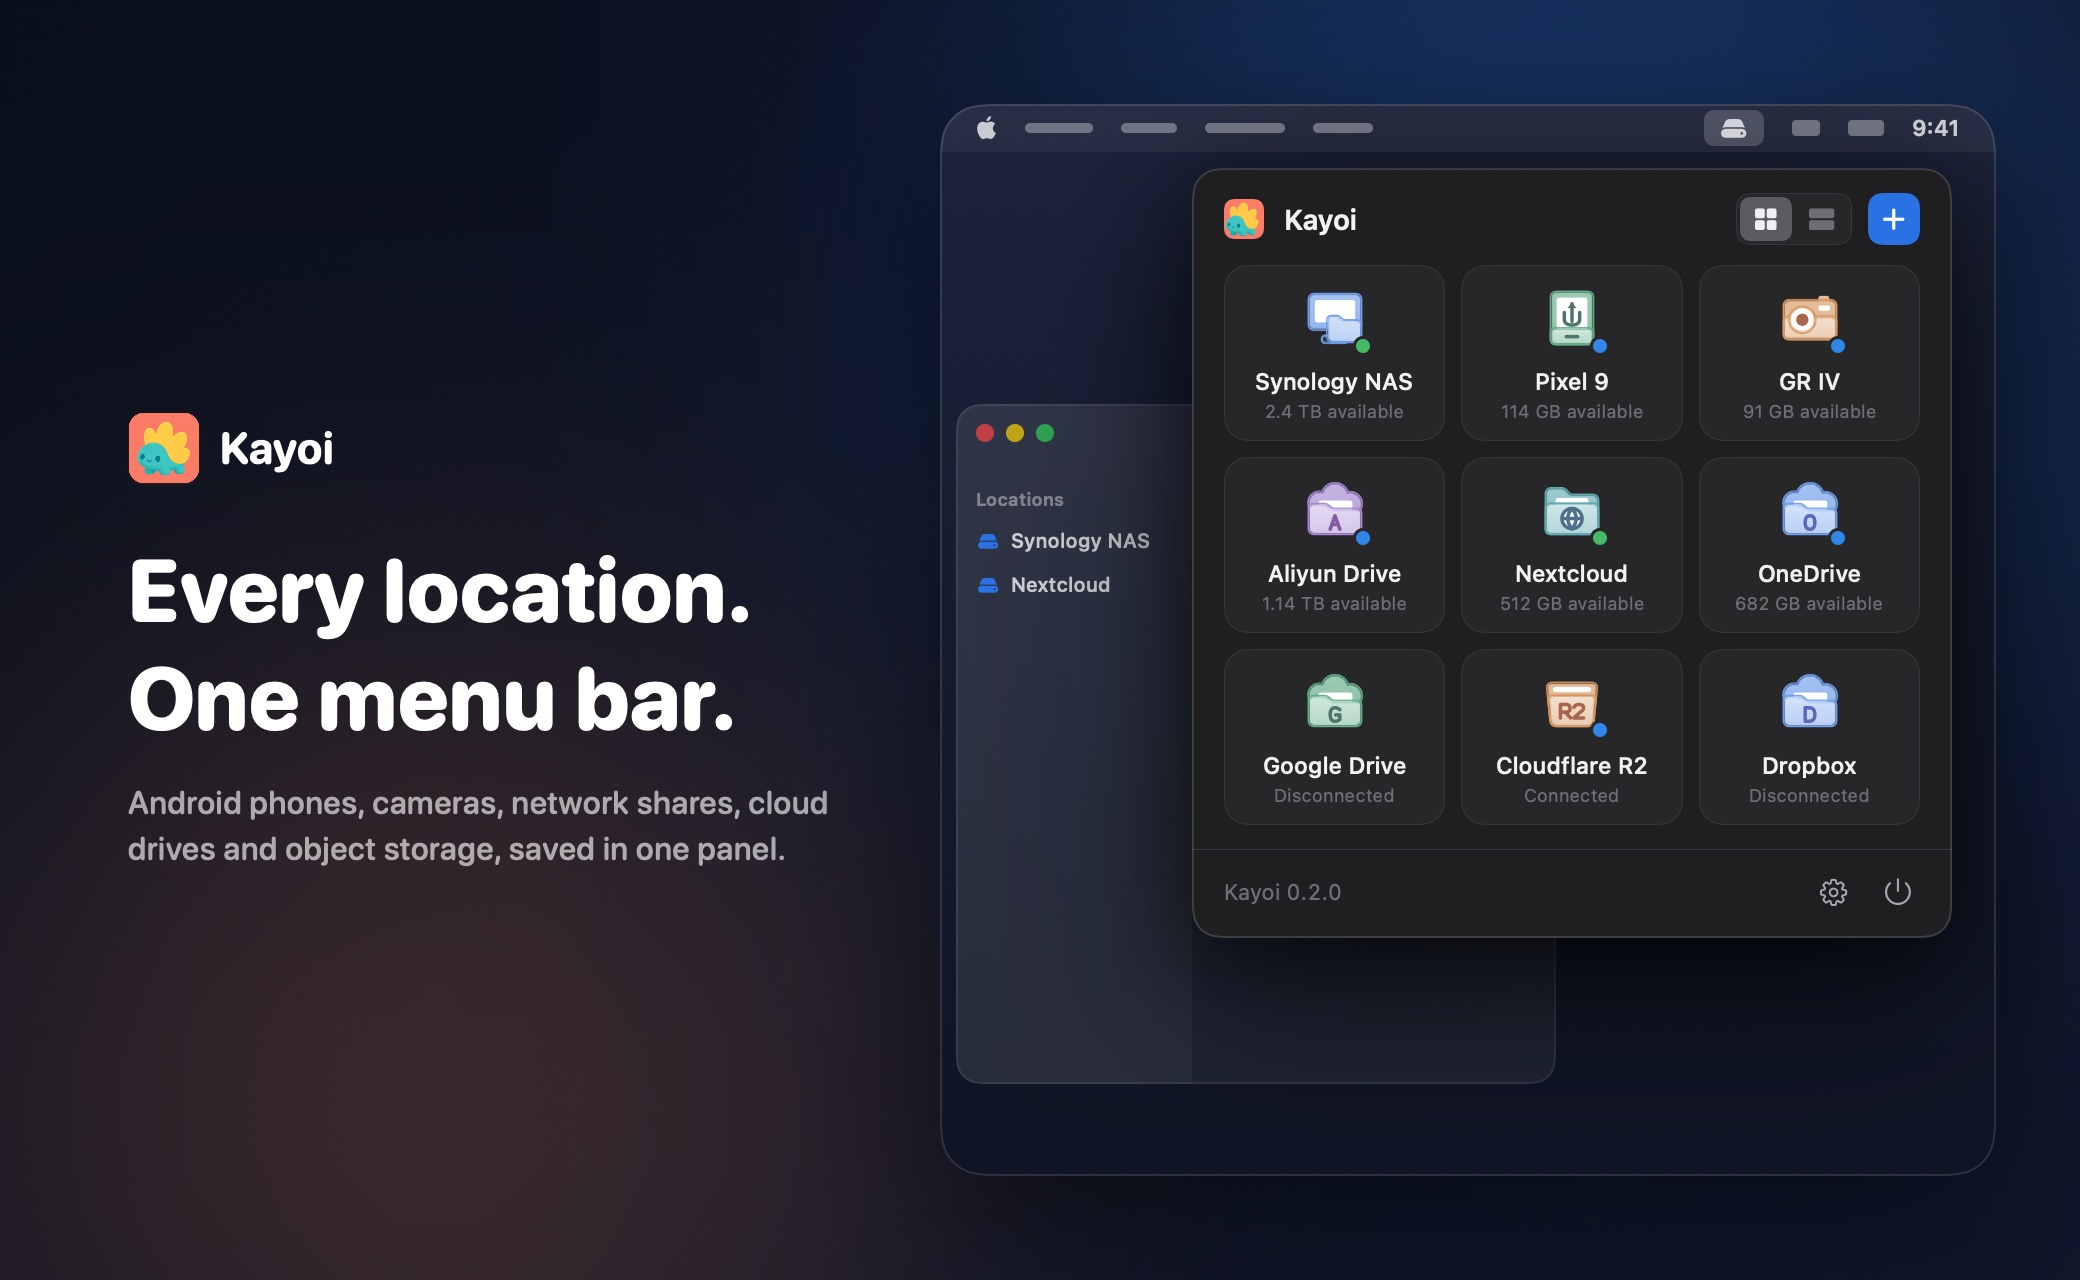
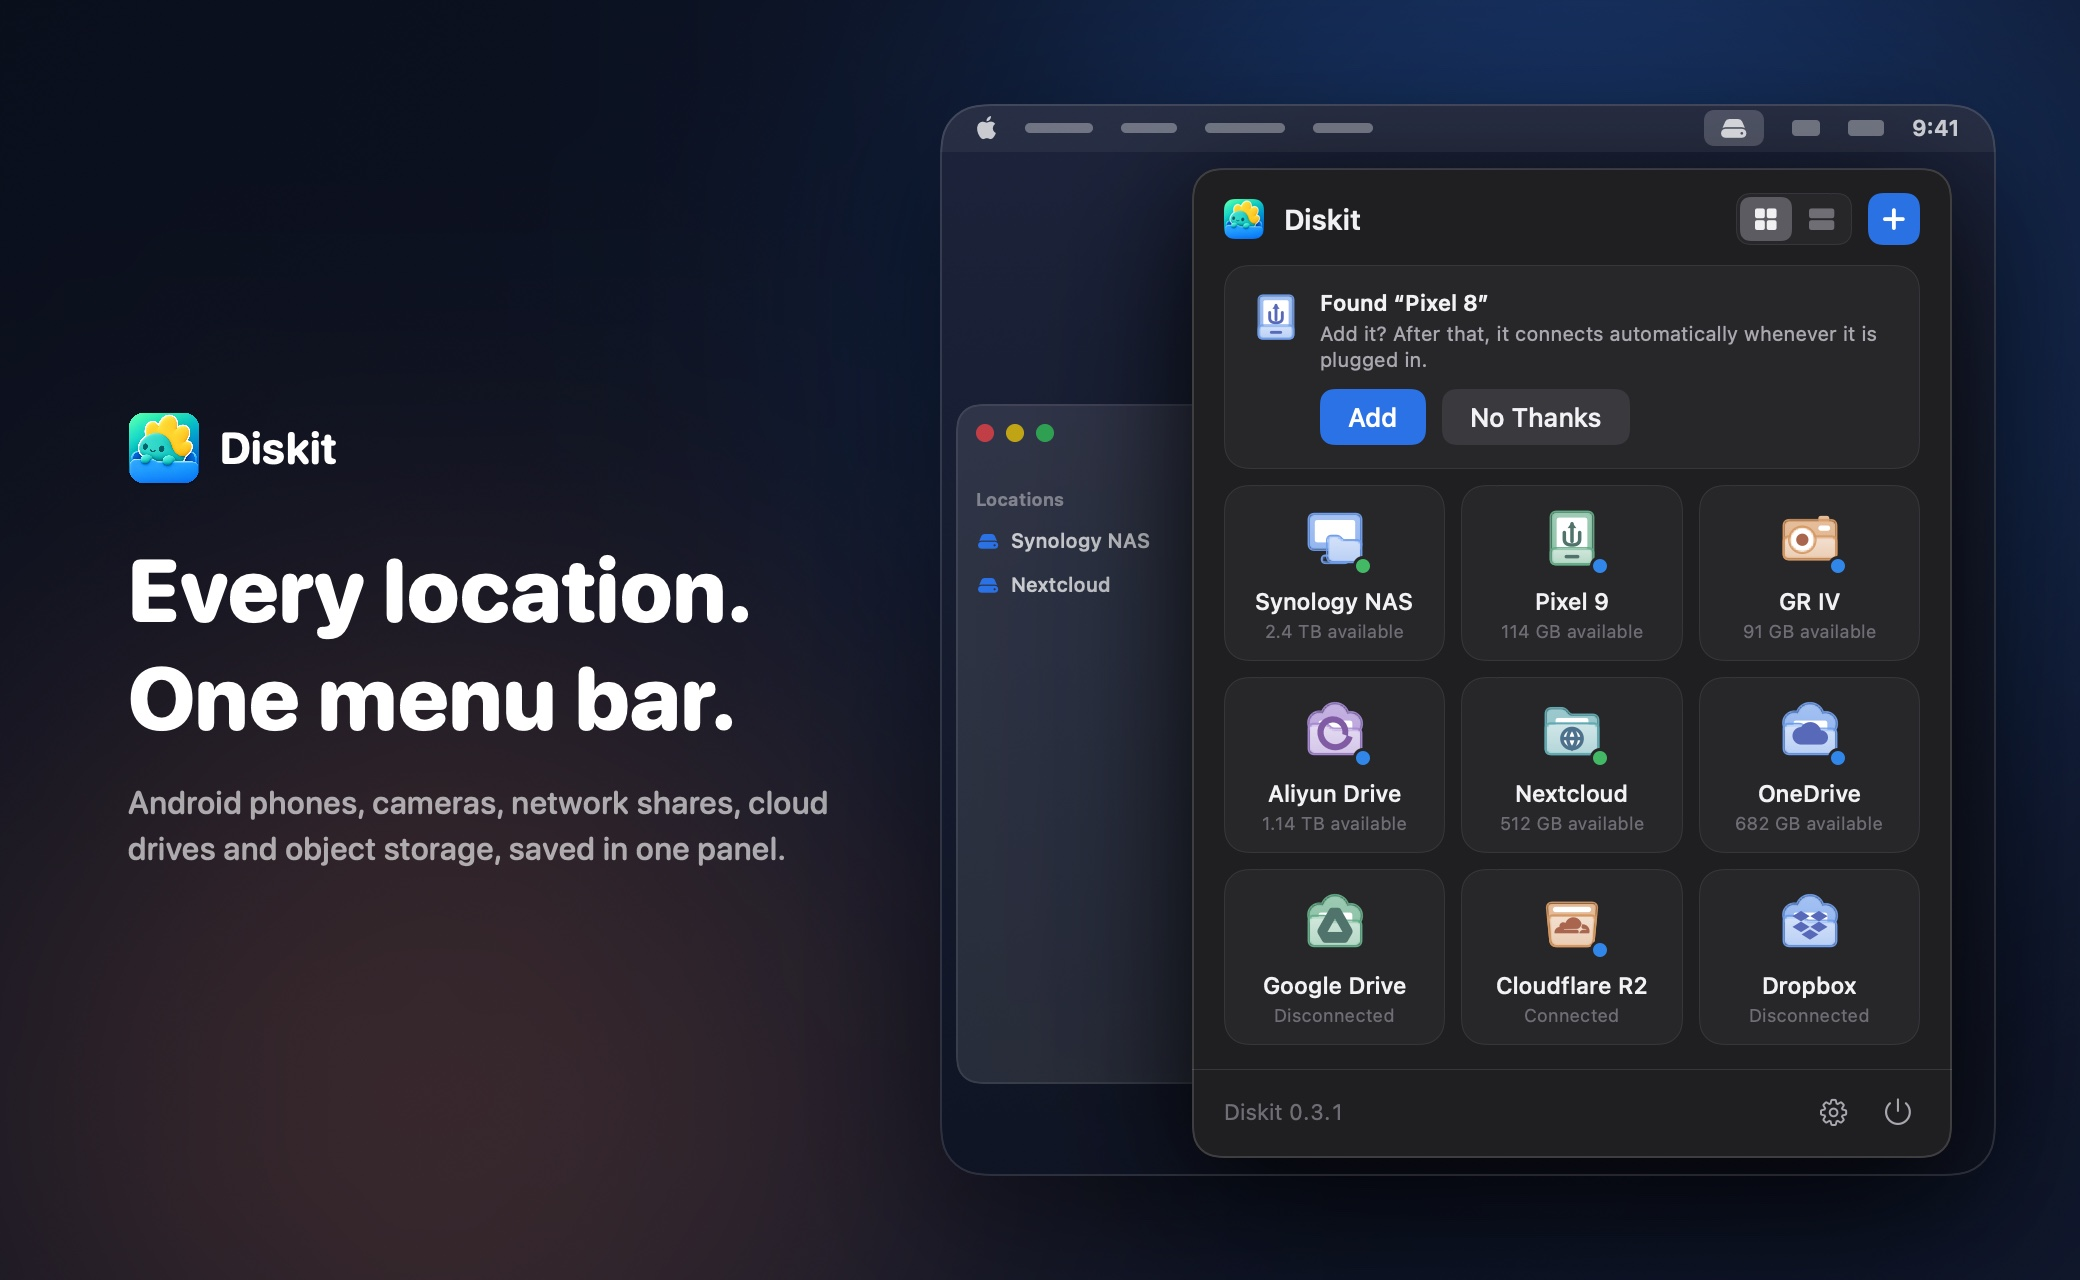
同步 README 和产品图

diff --git a/README.md b/README.md
@@ -1,8 +1,8 @@
 <div align="center">
 
-<a href="https://github.com/Seaony/Kayoi/releases/latest"><img src="docs/assets/icon-512.png" width="112" alt="Kayoi"></a>
+<a href="https://github.com/Seaony/Diskit/releases/latest"><img src="docs/assets/icon-512.png" width="112" alt="Diskit"></a>
 
-# Kayoi
+# Diskit
 
 ### Every location. One menu bar.
 
@@ -12,42 +12,42 @@ and mount your shares in Finder with one click.
 
 ![macOS 26+](https://img.shields.io/badge/macOS-26%2B-000000?logo=apple&logoColor=white) ![Swift 6](https://img.shields.io/badge/Swift-6-F05138?logo=swift&logoColor=white) ![SwiftUI](https://img.shields.io/badge/UI-SwiftUI-0A84FF?logo=swift&logoColor=white)
 
-**[Download](https://github.com/Seaony/Kayoi/releases/latest)** &nbsp;·&nbsp; **English** · [简体中文](README.zh-CN.md)
+**[Download](https://github.com/Seaony/Diskit/releases/latest)** &nbsp;·&nbsp; **English** · [简体中文](README.zh-CN.md)
 
 <br>
 
 <picture>
   <source media="(prefers-color-scheme: dark)" srcset="docs/assets/product-dark-en.jpg">
-  <img src="docs/assets/product-light-en.jpg" width="900" alt="Kayoi's panel open under its menu bar icon, showing a NAS, a phone, a camera and several cloud drives">
+  <img src="docs/assets/product-light-en.jpg" width="900" alt="Diskit's panel open under its menu bar icon, showing a NAS, a phone, a camera and several cloud drives">
 </picture>
 
 </div>
 
 <br>
 
-## Is Kayoi for you?
+## Is Diskit for you?
 
 Your files live in many places: a NAS at home, a phone on your desk, a camera in your bag, a few cloud drives and a storage bucket. Each one has its own app, its own sign-in and its own way to connect, and you end up looking them up again every time.
 
-Kayoi keeps them all in one panel in the menu bar:
+Diskit keeps them all in one panel in the menu bar:
 
 - **See everything at a glance**: each location is a card with its status and free space. Switch between cards and a compact list.
 - **Mount shares in one click**: SMB, WebDAV and NFS shares mount in Finder and stay there until you eject them.
-- **Connect phones and cameras without extra apps**: Kayoi speaks ADB itself, over USB or wireless debugging, and reads cameras through macOS.
+- **Connect phones and cameras without extra apps**: Diskit speaks ADB itself, over USB or wireless debugging, and reads cameras through macOS.
 - **Keep secrets in the Keychain**: passwords, tokens and cookies never go into a config file.
 
 It's for you if you move files between several devices and services. If everything you use already lives in one cloud drive with its own Mac app, you don't need it.
 
 > [!NOTE]
-> Kayoi is early (0.2). Today only SMB, WebDAV and NFS mount in Finder. Phones, cameras, cloud drives and object storage can be saved and tested in the app; opening their files in Finder is still in progress. Many integrations have not been checked against real accounts and devices yet.
+> Diskit is early (0.2). Today only SMB, WebDAV and NFS mount in Finder. Phones, cameras, cloud drives and object storage can be saved and tested in the app; opening their files in Finder is still in progress. Many integrations have not been checked against real accounts and devices yet.
 
 ## Quick start
 
-**1 · Install.** Download the DMG from the **[latest release](https://github.com/Seaony/Kayoi/releases/latest)**, open it and drag `Kayoi.app` into Applications.
+**1 · Install.** Download the DMG from the **[latest release](https://github.com/Seaony/Diskit/releases/latest)**, open it and drag `Diskit.app` into Applications.
 
-<sub>Builds are universal (Apple silicon and Intel) and need macOS 26 or later. They are not signed with an Apple Developer ID or notarised yet, so the first launch may be blocked; open **System Settings → Privacy & Security** and choose to open Kayoi anyway. Kayoi updates itself from GitHub Releases through Sparkle.</sub>
+<sub>Builds are universal (Apple silicon and Intel) and need macOS 26 or later. They are not signed with an Apple Developer ID or notarised yet, so the first launch may be blocked; open **System Settings → Privacy & Security** and choose to open Diskit anyway. Diskit updates itself from GitHub Releases through Sparkle.</sub>
 
-**2 · Add a location.** Click the Kayoi icon in the menu bar, press **+**, pick a type and fill in what it asks for. Devices and shares Kayoi finds on your network or USB appear first. Press **Test and Save**.
+**2 · Add a location.** Click the Diskit icon in the menu bar, press **+**, pick a type and fill in what it asks for. Devices and shares Diskit finds on your network or USB appear first. Press **Test and Save**.
 
 **3 · Use it.** Click a card for its actions: mount or eject a share, test a phone or drive again, edit, reorder or delete. Mounted shares show up in Finder's sidebar under Locations.
 
@@ -67,15 +67,15 @@ Official cloud drives sign in through each provider's own authorisation page. Ex
 
 ### A panel, not another window
 
-Kayoi lives in the menu bar with no Dock icon. The panel shows every saved location as a card or a row, with a status dot and the space left. Drag to reorder, right-click for actions, and use the keyboard: arrow keys to select, Return for the main action, ⌘N to add, ⌘E to edit. The menu bar icon fills in when something is mounted and flags locations that need attention.
+Diskit lives in the menu bar with no Dock icon. The panel shows every saved location as a card or a row, with a status dot and the space left. Drag to reorder, right-click for actions, and use the keyboard: arrow keys to select, Return for the main action, ⌘N to add, ⌘E to edit. The menu bar icon fills in when something is mounted and flags locations that need attention.
 
 ### Shares in Finder
 
-SMB, WebDAV and NFS shares mount through macOS, so Finder and every other app see them as normal volumes. Kayoi can list the shares on an SMB server, checks your password before saving, and leaves system mounts in place when you quit.
+SMB, WebDAV and NFS shares mount through macOS, so Finder and every other app see them as normal volumes. Diskit can list the shares on an SMB server, checks your password before saving, and leaves system mounts in place when you quit.
 
 ### Phones and cameras
 
-Android phones connect over USB debugging or Android 11+ wireless debugging with a pairing code. Kayoi implements the ADB protocol itself, so there's no `adb` to install and nothing to add to the phone. Ricoh GR IV and other USB cameras are read through macOS Image Capture; their photos stay untouched unless the camera allows deleting.
+Android phones connect over USB debugging or Android 11+ wireless debugging with a pairing code. Diskit implements the ADB protocol itself, so there's no `adb` to install and nothing to add to the phone. Ricoh GR IV and other USB cameras are read through macOS Image Capture; their photos stay untouched unless the camera allows deleting.
 
 ### Built for macOS
 
@@ -84,8 +84,8 @@ Native SwiftUI and AppKit. Light and dark appearance. English and Simplified Chi
 ## Privacy
 
 - Passwords, tokens and cookies are stored in your login Keychain.
-- Saved locations live in `~/Library/Application Support/Kayoi/connections.json`, without any secrets. Caches stay in `~/Library/Caches/Kayoi/`, and error logs are kept for 7 days.
-- Kayoi has no analytics. Besides looking for phones, cameras and shares on your local network and over USB, it talks only to the devices and services you add, and to Kayoi's GitHub Releases feed for updates.
+- Saved locations live in `~/Library/Application Support/Diskit/connections.json`, without any secrets. Caches stay in `~/Library/Caches/Diskit/`, and error logs are kept for 7 days.
+- Diskit has no analytics. Besides looking for phones, cameras and shares on your local network and over USB, it talks only to the devices and services you add, and to Diskit's GitHub Releases feed for updates.
 
 ## Acknowledgements
 

diff --git a/README.zh-CN.md b/README.zh-CN.md
@@ -1,8 +1,8 @@
 <div align="center">
 
-<a href="https://github.com/Seaony/Kayoi/releases/latest"><img src="docs/assets/icon-512.png" width="112" alt="Kayoi"></a>
+<a href="https://github.com/Seaony/Diskit/releases/latest"><img src="docs/assets/icon-512.png" width="112" alt="Diskit"></a>
 
-# Kayoi
+# Diskit
 
 ### 手机、共享、网盘，都在菜单栏。
 
@@ -12,42 +12,42 @@
 
 ![macOS 26+](https://img.shields.io/badge/macOS-26%2B-000000?logo=apple&logoColor=white) ![Swift 6](https://img.shields.io/badge/Swift-6-F05138?logo=swift&logoColor=white) ![SwiftUI](https://img.shields.io/badge/UI-SwiftUI-0A84FF?logo=swift&logoColor=white)
 
-**[下载](https://github.com/Seaony/Kayoi/releases/latest)** &nbsp;·&nbsp; [English](README.md) · **简体中文**
+**[下载](https://github.com/Seaony/Diskit/releases/latest)** &nbsp;·&nbsp; [English](README.md) · **简体中文**
 
 <br>
 
 <picture>
   <source media="(prefers-color-scheme: dark)" srcset="docs/assets/product-dark-zh.jpg">
-  <img src="docs/assets/product-light-zh.jpg" width="900" alt="Kayoi 面板从菜单栏图标下展开，列出 NAS、手机、相机和多个网盘">
+  <img src="docs/assets/product-light-zh.jpg" width="900" alt="Diskit 面板从菜单栏图标下展开，列出 NAS、手机、相机和多个网盘">
 </picture>
 
 </div>
 
 <br>
 
-## Kayoi 适合你吗？
+## Diskit 适合你吗？
 
 文件散在很多地方：家里的 NAS、桌上的手机、包里的相机，还有几个网盘和一个存储桶。每个都有自己的 App、自己的登录和自己的连接方式，每次用都要重新找一遍。
 
-Kayoi 把它们都放进菜单栏的一个面板里：
+Diskit 把它们都放进菜单栏的一个面板里：
 
 - **一眼看清**：每个位置是一张卡片，显示状态和剩余空间；也可以切换成紧凑的列表。
 - **共享一键挂载**：SMB、WebDAV、NFS 共享挂载到 Finder，推出之前一直都在。
-- **手机和相机不用装别的 App**：Kayoi 自己实现了 ADB，支持 USB 和无线调试；相机通过 macOS 读取。
+- **手机和相机不用装别的 App**：Diskit 自己实现了 ADB，支持 USB 和无线调试；相机通过 macOS 读取。
 - **密钥只放钥匙串**：密码、令牌和 Cookie 不会写进配置文件。
 
 如果你经常在多台设备和多个服务之间倒腾文件，它适合你。如果你只用一个网盘，而且它已经有自己的 Mac App，就不需要它。
 
 > [!NOTE]
-> Kayoi 还在早期（0.2）。目前只有 SMB、WebDAV、NFS 能挂载到 Finder。手机、相机、网盘和对象存储可以在应用里保存和测试连接；在 Finder 里打开它们的文件还在开发中。很多接入还没有用真实账号和设备验证过。
+> Diskit 还在早期（0.2）。目前只有 SMB、WebDAV、NFS 能挂载到 Finder。手机、相机、网盘和对象存储可以在应用里保存和测试连接；在 Finder 里打开它们的文件还在开发中。很多接入还没有用真实账号和设备验证过。
 
 ## 快速开始
 
-**1 · 安装。** 从 **[最新版本](https://github.com/Seaony/Kayoi/releases/latest)** 下载 DMG，打开后把 `Kayoi.app` 拖进“应用程序”。
+**1 · 安装。** 从 **[最新版本](https://github.com/Seaony/Diskit/releases/latest)** 下载 DMG，打开后把 `Diskit.app` 拖进“应用程序”。
 
-<sub>安装包同时支持 Apple 芯片和 Intel，需要 macOS 26 或更高版本。目前还没有 Apple Developer ID 签名和公证，首次打开可能被拦截；打开 **系统设置 → 隐私与安全性**，选择仍要打开 Kayoi。Kayoi 通过 Sparkle 从 GitHub Releases 自动更新。</sub>
+<sub>安装包同时支持 Apple 芯片和 Intel，需要 macOS 26 或更高版本。目前还没有 Apple Developer ID 签名和公证，首次打开可能被拦截；打开 **系统设置 → 隐私与安全性**，选择仍要打开 Diskit。Diskit 通过 Sparkle 从 GitHub Releases 自动更新。</sub>
 
-**2 · 添加位置。** 点菜单栏的 Kayoi 图标，按 **+**，选择类型并按提示填写。局域网和 USB 上已发现的设备和共享会排在最前。按 **测试并保存**。
+**2 · 添加位置。** 点菜单栏的 Diskit 图标，按 **+**，选择类型并按提示填写。局域网和 USB 上已发现的设备和共享会排在最前。按 **测试并保存**。
 
 **3 · 开始使用。** 点卡片打开操作：挂载或推出共享、重新测试手机或网盘、编辑、排序或删除。挂载后的共享会出现在 Finder 侧栏的“位置”里。
 
@@ -67,15 +67,15 @@ Kayoi 把它们都放进菜单栏的一个面板里：
 
 ### 一个面板，不是又一个窗口
 
-Kayoi 常驻菜单栏，不占 Dock。面板把每个已保存的位置显示成卡片或一行，带状态点和剩余空间。可以拖动排序、右键操作，也可以用键盘：方向键选择，回车执行主操作，⌘N 添加，⌘E 编辑。有共享挂载时菜单栏图标会变成实心，有位置需要处理时会带上提醒标记。
+Diskit 常驻菜单栏，不占 Dock。面板把每个已保存的位置显示成卡片或一行，带状态点和剩余空间。可以拖动排序、右键操作，也可以用键盘：方向键选择，回车执行主操作，⌘N 添加，⌘E 编辑。有共享挂载时菜单栏图标会变成实心，有位置需要处理时会带上提醒标记。
 
 ### 共享进 Finder
 
-SMB、WebDAV、NFS 共享通过 macOS 挂载，Finder 和其他 App 都把它们当作普通的盘。Kayoi 能列出 SMB 服务器上的共享，保存前会先验证密码；退出 Kayoi 时保留系统挂载。
+SMB、WebDAV、NFS 共享通过 macOS 挂载，Finder 和其他 App 都把它们当作普通的盘。Diskit 能列出 SMB 服务器上的共享，保存前会先验证密码；退出 Diskit 时保留系统挂载。
 
 ### 手机和相机
 
-安卓手机通过 USB 调试连接，Android 11 及以上也可以用配对码走无线调试。Kayoi 自己实现了 ADB 协议，不用安装 `adb`，手机上也不用装任何东西。理光 GR IV 和其他 USB 相机通过 macOS 的图像捕捉读取；除非相机允许删除，否则不会改动照片。
+安卓手机通过 USB 调试连接，Android 11 及以上也可以用配对码走无线调试。Diskit 自己实现了 ADB 协议，不用安装 `adb`，手机上也不用装任何东西。理光 GR IV 和其他 USB 相机通过 macOS 的图像捕捉读取；除非相机允许删除，否则不会改动照片。
 
 ### 为 macOS 而做
 
@@ -84,8 +84,8 @@ SMB、WebDAV、NFS 共享通过 macOS 挂载，Finder 和其他 App 都把它们
 ## 隐私
 
 - 密码、令牌和 Cookie 保存在登录钥匙串里。
-- 已保存的位置在 `~/Library/Application Support/Kayoi/connections.json`，不含任何密钥。缓存在 `~/Library/Caches/Kayoi/`，错误日志保留 7 天。
-- Kayoi 不做任何统计。除了在局域网和 USB 上发现手机、相机和共享，它只和你添加的设备、服务通信，以及访问 Kayoi 的 GitHub Releases 检查更新。
+- 已保存的位置在 `~/Library/Application Support/Diskit/connections.json`，不含任何密钥。缓存在 `~/Library/Caches/Diskit/`，错误日志保留 7 天。
+- Diskit 不做任何统计。除了在局域网和 USB 上发现手机、相机和共享，它只和你添加的设备、服务通信，以及访问 Diskit 的 GitHub Releases 检查更新。
 
 ## 致谢
 

diff --git a/docs/THIRD_PARTY_NOTICES.md b/docs/THIRD_PARTY_NOTICES.md
@@ -102,7 +102,7 @@ https://g.alicdn.com/quark-cloud-drive/quark-cloud-drive-static-page/0.1.78/js/i
   - `Taizong547/YunpanTingshu`（MIT，commit `3ba2078ac7a86ca54c0d4b0975b0224b5e3cc71c`）仅用于交叉核对签名、路由和列表行为：https://github.com/Taizong547/YunpanTingshu
 - 迅雷云盘：
   - 官方网页：https://pan.xunlei.com/
-  - 接口行为按当前官方网页脚本核对。上传脚本确认会转入阿里云、腾讯云、华为云或火山云 SDK 分片流程；Kayoi 只请求并处理 `PROVIDER_ALIYUN`。
+  - 接口行为按当前官方网页脚本核对。上传脚本确认会转入阿里云、腾讯云、华为云或火山云 SDK 分片流程；Diskit 只请求并处理 `PROVIDER_ALIYUN`。
   - 官方 SDK：https://github.com/aliyun/alibabacloud-oss-swift-sdk-v2
   - 固定版本：`0.4.0`，commit `335c1777bf3c4aa86d7212c03e515de53b192418`。
   - 许可证：Apache-2.0，副本为 `docs/licenses/Apache-2.0.txt`。
